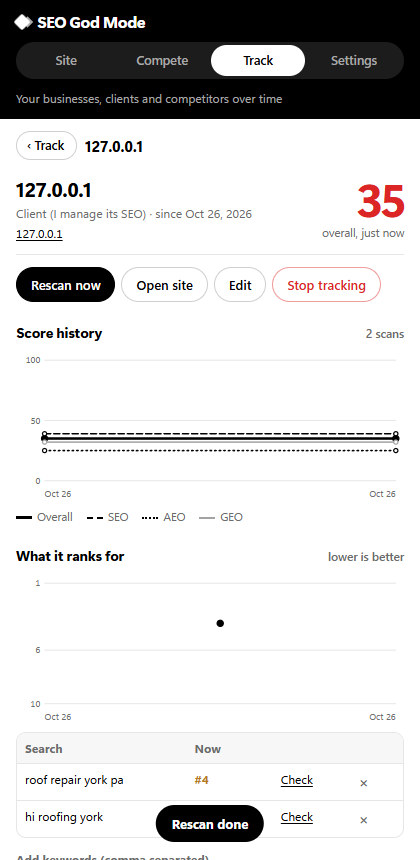
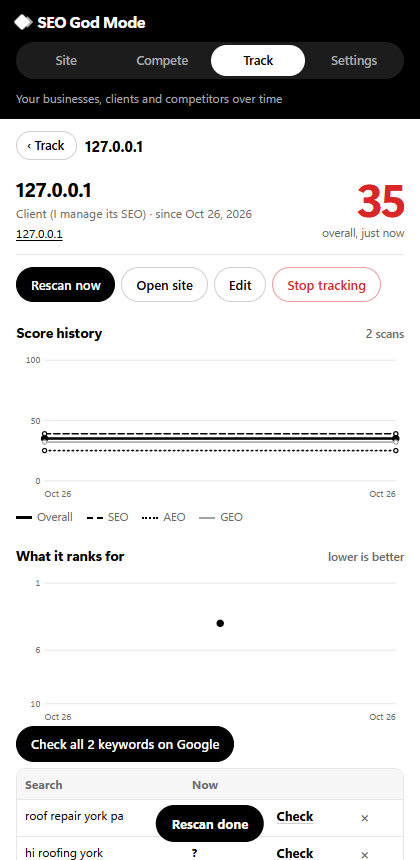
Extension 1.12: Check searches and updates positions, keyword report with fix prompt, new keywords to try

diff --git a/extension/views.js b/extension/views.js
@@ -15,6 +15,7 @@ import { getSettings, overlayRegistered, runDaily, saveSettings, syncOverlay } f
 import { techBlock, techProfile } from "./lib/tech.js";
 import { breakdown } from "./lib/breakdown.js";
 import * as T from "./lib/track.js";
+import * as K from "./lib/kwcheck.js";
 import * as U from "./lib/update.js";
 
 const $ = (id) => document.getElementById(id);
@@ -593,11 +594,13 @@ async function renderSiteDetail(origin) {
       { name: "AEO", cls: "k2", points: h.map((p) => ({ t: p.t, v: p.aeo })) }, { name: "GEO", cls: "k3", points: h.map((p) => ({ t: p.t, v: p.geo })) }], { label: "Score history" })}
     <h2 class="sec">What it ranks for <small>lower is better</small></h2>
     ${topK.length ? T.lineChart(topK.map((q, i) => ({ name: q, cls: cls[i], points: pos.filter((p) => p.q === q).map((p) => ({ t: p.t, v: p.pos })) })), { min: 1, max: maxPos, invert: true, label: "Keyword positions" }) : ""}
+    ${kws.length ? `<div class="btns"><button id="checkall" class="primary">Check ${kws.length > 1 ? `all ${Math.min(kws.length, CHECK_MAX)} keywords` : "this keyword"} on Google</button></div><p id="kwstatus" class="lede" hidden></p>` : ""}
     ${kws.length ? `<table class="mini ranks"><tr><th>Search</th><th>Now</th><th></th><th></th><th></th></tr>${kws.map((q) => { const r = byQ[q]; const d = r?.pos && r?.prev ? r.prev - r.pos : null;
-      return `<tr><td>${esc(q)}</td><td class="num ${posCls(r?.pos)}">${r ? (r.pos ? "#" + r.pos : "–") : "?"}</td><td class="num ${d > 0 ? "up" : d < 0 ? "down" : ""}">${d ? (d > 0 ? "▲" : "▼") + Math.abs(d) : ""}</td><td><a href="https://www.google.com/search?q=${encodeURIComponent(q)}" target="_blank" rel="noopener" title="Search it on Google to record the position">Check</a></td><td><button class="kwdel" data-delkw="${esc(q)}" title="Stop tracking “${esc(q)}”" aria-label="Stop tracking ${esc(q)}">×</button></td></tr>`; }).join("")}</table>`
+      return `<tr><td>${esc(q)}</td><td class="num ${posCls(r?.pos)}">${r ? (r.pos ? "#" + r.pos : "–") : "?"}</td><td class="num ${d > 0 ? "up" : d < 0 ? "down" : ""}">${d ? (d > 0 ? "▲" : "▼") + Math.abs(d) : ""}</td><td><button class="linkish" data-checkkw="${esc(q)}" title="Search “${esc(q)}” on Google now and update the position">Check</button></td><td><button class="kwdel" data-delkw="${esc(q)}" title="Stop tracking “${esc(q)}”" aria-label="Stop tracking ${esc(q)}">×</button></td></tr>`; }).join("")}</table>`
       : `<p class="lede">No searches yet. Search one on Google, or add keywords below.</p>`}
     <form id="kwadd" class="field"><label for="kwnew">Add keywords (comma separated)</label><div class="row2"><input id="kwnew" class="search" placeholder="roof repair york pa, metal roofing"><button>Add</button></div></form>
-    <p class="unknowns">“?” not searched yet, “–” not in the results shown. Positions are recorded when you search on Google; the extension never searches by itself.</p>
+    <p class="unknowns">“?” not checked yet, “–” not in the results shown. Check searches Google in a background tab, one keyword every few seconds, only when you press it. Searching on Google yourself updates positions too. Results vary by location.</p>
+    ${await kwReportBlock(origin)}
     <h2 class="sec">Hosting and tech</h2><div id="techout"><p class="lede">Looking it up…</p></div>
     ${T.isOwned(s) ? await compareBlock(s, list) : ""}
     ${h.length ? fold("All scans", h.length, `<table class="mini"><tr><th>Date</th><th>Overall</th><th>SEO</th><th>AEO</th><th>GEO</th><th>Pages</th></tr>${[...h].reverse().slice(0, 30).map((p) => `<tr><td>${when(p.t)}</td><td>${p.overall}</td><td>${p.seo}</td><td>${p.aeo}</td><td>${p.geo}</td><td>${p.pages ?? ""}</td></tr>`).join("")}</table>`) : ""}`;
@@ -615,8 +618,68 @@ async function renderSiteDetail(origin) {
   $("opensite").onclick = () => chrome.tabs.create({ url: origin + "/" });
   $("kwadd").onsubmit = async (e) => { e.preventDefault(); await T.setKeywords(origin, [...s.keywords, ...$("kwnew").value.split(",")]); renderSiteDetail(origin); };
   $("removesite").onclick = () => confirmRemove($("removebox"), origin, s.name, () => { v.detail = null; renderTrack(ui); });
+  const ca = $("checkall"); if (ca) ca.onclick = () => checkKeywords(origin, kws.slice(0, CHECK_MAX));
+  el.querySelectorAll("[data-checkkw]").forEach((b) => (b.onclick = () => checkKeywords(origin, [b.dataset.checkkw])));
+  el.querySelectorAll("[data-checknew]").forEach((b) => (b.onclick = async () => { const q = b.dataset.checknew; await T.setKeywords(origin, [...s.keywords, q]); checkKeywords(origin, [q]); }));
+  el.querySelectorAll("[data-trackkw]").forEach((b) => (b.onclick = async () => { await T.setKeywords(origin, [...s.keywords, b.dataset.trackkw]); ui.toast(`Tracking “${b.dataset.trackkw}”`); renderSiteDetail(origin); }));
+  const kp = $("kwprompt"); if (kp) kp.onclick = async () => ui.copy(K.keywordPrompt(origin, await K.getReport(origin)), "Fix prompt copied");
   el.querySelectorAll("[data-delkw]").forEach((b) => (b.onclick = async () => { await T.removeKeyword(origin, b.dataset.delkw); ui.toast(`Stopped tracking “${b.dataset.delkw}”`); renderSiteDetail(origin); }));
   showTech($("techout"), origin);
+}
+
+const CHECK_MAX = 15;
+
+/**
+ * Press Check: search the keywords on Google (background tab), record the positions, then compare the pages for the
+ * keywords not in the top 3 and suggest new ones. Asks for Google (to search) and other sites (to compare) in one go.
+ */
+async function checkKeywords(origin, qs) {
+  if (v.checking) return;
+  const want = [...GOOGLE, "https://*/*", "http://*/*"];
+  if (!(await chrome.permissions.contains({ origins: want }))) await chrome.permissions.request({ origins: want }).catch(() => false);
+  if (!(await chrome.permissions.contains({ origins: GOOGLE }))) return ui.notice("Checking needs access to google.com to read the results. Press Check again and choose Allow.");
+  const canRead = await chrome.permissions.contains({ origins: ["https://*/*", "http://*/*"] });
+  v.checking = true;
+  const say = (t) => { const st = $("kwstatus"); if (st) { st.hidden = false; st.textContent = t; } };
+  document.querySelectorAll("#checkall, [data-checkkw], [data-checknew]").forEach((b) => (b.disabled = true));
+  document.body.classList.add("busy");
+  try {
+    const { results, blocked } = await K.searchKeywords(qs, { origin, onProgress: say });
+    if (results.some((r) => !r.error)) await K.buildReport(origin, results, { canRead, onProgress: say });
+    if (blocked) ui.notice("Google is showing a robot check in the tab that just opened. Solve it there, then press Check again.");
+    const done = results.filter((r) => !r.error);
+    ui.toast(done.length === 1 ? `“${done[0].q}”: ${done[0].pos ? "#" + done[0].pos : "not in the top " + done[0].of}` : `Checked ${done.length} keyword${done.length === 1 ? "" : "s"}`);
+  } catch (e) { ui.notice(esc(e.message || e)); }
+  finally {
+    v.checking = false; document.body.classList.remove("busy");
+    if (document.body.dataset.mode === "track" && v.detail === origin && !v.editing) renderSiteDetail(origin);
+  }
+}
+
+/** The saved keyword report: where the site is top 3 and where it isn't, why, a fix prompt, and new keywords to try. */
+async function kwReportBlock(origin) {
+  const r = await K.getReport(origin);
+  if (!r?.rows.length) return "";
+  const by = { top: [], close: [], behind: [] };
+  r.rows.forEach((x) => by[K.group(x.pos)].push(x));
+  const sortPos = (a, b) => (a.pos ?? 99) - (b.pos ?? 99);
+  const tops = (x) => x.top.map((t) => `#${t.position} ${esc(t.host)}`).join(", ");
+  const weak = [...by.close, ...by.behind].sort(sortPos);
+  const cls = { close: "s-part", behind: "s-fail" };
+  return `<h2 class="sec">Keyword report <small>checked ${esc(when(r.t))}</small></h2>
+    <div class="kwsum"><span class="s-pass"><b>${by.top.length}</b> top 3</span><span class="s-part"><b>${by.close.length}</b> page 1</span><span class="s-fail"><b>${by.behind.length}</b> not on page 1</span></div>
+    ${by.top.length ? `<p class="lede"><b>Ranking well:</b> ${by.top.sort(sortPos).map((x) => `“${esc(x.q)}” #${x.pos}`).join(", ")}.</p>` : ""}
+    ${weak.length ? `<div class="list">${weak.map((x) => `<div class="factor"><span class="dot ${cls[K.group(x.pos)]}"></span><div>
+      <b>${esc(x.q)} · ${x.pos ? "#" + x.pos : "not in the top " + (x.of || 10)}</b>
+      <small>Top: ${tops(x)}${x.score != null ? ` · on-page ${x.score} vs ${(x.others || []).join(", ") || "–"}` : ""}</small>
+      ${x.verdict ? `<p>${esc(x.verdict)}</p>` : ""}
+      ${x.gaps?.length ? `<ul class="kwgaps">${x.gaps.map((g) => `<li><b>${esc(g.label)}</b> (you ${esc(g.mine)}, them ${esc(g.them.join(" / ") || "–")}): ${esc(g.fix)}</li>`).join("")}</ul>`
+        : x.error ? `<p>Couldn't compare the pages (${esc(x.error)}).</p>` : x.score == null ? `<p>Allow reading other websites (press Check again and choose Allow) to see what the top pages do differently.</p>` : ""}
+    </div></div>`).join("")}</div>` : `<p class="lede">Every checked keyword is in the top 3.</p>`}
+    <div class="btns stack"><button id="kwprompt" class="primary">Copy fix prompt</button></div>
+    ${r.ideas.length ? `<h2 class="sec">New keywords to try <small>from Google's questions and related searches</small></h2>
+      <ul class="ideas">${r.ideas.map((x) => `<li><span>${esc(x.q)} <small>${x.kind === "question" ? "question" : "related"}</small></span><span class="acts">
+        <button class="linkish" data-checknew="${esc(x.q)}">Check</button><button class="linkish" data-trackkw="${esc(x.q)}">+ Track</button></span></li>`).join("")}</ul>` : ""}`;
 }
 
 /** Hosting and tech for a site, into el. Asks for access only when the user presses the button. */

diff --git a/extension/lib/kwcheck.js b/extension/lib/kwcheck.js
@@ -1,0 +1,102 @@
+/**
+ * Keyword check, run from the Track view when you press Check (never on its own):
+ *  - Searches each keyword on Google in a background tab, one at a time a few seconds apart, reads the results with
+ *    readGoogle and records the site's position (the same reading a normal Google search records).
+ *  - Stops at a robot check and brings that tab forward for you to solve. It never tries to get past one.
+ *  - For keywords where the site isn't in the top 3, compares its page with the top results (the same breakdown as
+ *    the Google hover cards) and lists what to change.
+ *  - Suggests new keywords from the searches' "People also ask" and related searches, minus the ones already tracked.
+ * The report is saved per site ("kwreport:<origin>") and merged with earlier checks.
+ */
+import { readGoogle } from "./google.js";
+import { breakdown } from "./breakdown.js";
+import { recordPositions, trackedSites } from "./track.js";
+
+export const reportKey = (origin) => "kwreport:" + origin;
+const hostOf = (u) => { try { return new URL(u).hostname.replace(/^www\./, ""); } catch { return ""; } };
+const sleep = (ms) => new Promise((r) => setTimeout(r, ms));
+
+function loaded(tabId, timeout = 20000) {
+  return new Promise((resolve) => {
+    const done = () => { clearTimeout(t); chrome.tabs.onUpdated.removeListener(on); setTimeout(resolve, 700); };
+    const on = (id, info) => { if (id === tabId && info.status === "complete") done(); };
+    const t = setTimeout(done, timeout);
+    chrome.tabs.onUpdated.addListener(on);
+  });
+}
+
+/** Search each keyword and record positions. Returns {results: [{q, pos, of, serp}], blocked}. */
+export async function searchKeywords(qs, { origin, onProgress = () => {} } = {}) {
+  const tab = await chrome.tabs.create({ url: "about:blank", active: false });
+  const results = [];
+  let blocked = false;
+  try {
+    for (const [i, q] of qs.entries()) {
+      if (i) await sleep(2500 + Math.random() * 1500);
+      onProgress(`Searching Google for “${q}” (${i + 1} of ${qs.length})…`);
+      const wait = loaded(tab.id);
+      await chrome.tabs.update(tab.id, { url: "https://www.google.com/search?q=" + encodeURIComponent(q) });
+      await wait;
+      const serp = (await chrome.scripting.executeScript({ target: { tabId: tab.id }, func: readGoogle }).catch(() => [{}]))[0]?.result;
+      if (serp?.blocked) { blocked = true; break; }
+      if (serp?.kind !== "serp" || !serp.organic?.length) { results.push({ q, error: "couldn't read the results" }); continue; }
+      serp.query = q;
+      const mine = (await recordPositions(serp)).find((r) => r.origin === origin);
+      results.push({ q, pos: mine?.pos ?? null, of: serp.organic.length, serp });
+    }
+  } finally {
+    if (blocked) chrome.tabs.update(tab.id, { active: true }).catch(() => {});
+    else chrome.tabs.remove(tab.id).catch(() => {});
+  }
+  return { results, blocked };
+}
+
+export const group = (pos) => (pos && pos <= 3 ? "top" : pos && pos <= 10 ? "close" : "behind");
+
+/**
+ * Break down the keywords where the site isn't top 3, suggest new keywords, and save the report merged with earlier ones.
+ * canRead: whether the extension may read other websites (needed to compare pages).
+ */
+export async function buildReport(origin, results, { canRead = true, onProgress = () => {} } = {}) {
+  const site = (await trackedSites()).find((s) => s.origin === origin);
+  const old = (await chrome.storage.local.get(reportKey(origin)))[reportKey(origin)] || { rows: [], ideas: [] };
+  const rows = new Map(old.rows.map((r) => [r.q, r]));
+  const ideas = new Map(old.ideas.map((x) => [x.q.toLowerCase(), x]));
+  for (const r of results.filter((x) => !x.error)) {
+    const row = { q: r.q, pos: r.pos, of: r.of, t: new Date().toISOString(), top: r.serp.organic.slice(0, 3).map((o) => ({ host: hostOf(o.url), position: o.position })) };
+    const hit = r.serp.organic.find((o) => hostOf(o.url) === hostOf(origin));
+    row.page = hit?.url || origin + "/";
+    if (group(r.pos) !== "top" && canRead) {
+      onProgress(`Comparing your page with the top results for “${r.q}”…`);
+      const b = await breakdown({ query: r.q, organic: r.serp.organic }, row.page, { n: 3 }).catch((e) => ({ error: String(e.message || e) }));
+      if (b.error) row.error = b.error;
+      else Object.assign(row, { score: b.score, others: b.others, verdict: b.verdict,
+        gaps: b.gaps.filter((g) => g.behind).slice(0, 4).map((g) => ({ label: g.label, fix: g.fix, mine: g.mine, them: g.them })) });
+    }
+    rows.set(r.q, row);
+    for (const q of r.serp.paa || []) ideas.set(q.toLowerCase(), { q, kind: "question", from: r.q });
+    for (const q of r.serp.related || []) ideas.set(q.toLowerCase(), { q, kind: "related", from: r.q });
+  }
+  const have = new Set([...(site?.keywords || []), ...rows.keys()].map((k) => k.toLowerCase()));
+  const report = { t: new Date().toISOString(), rows: [...rows.values()],
+    ideas: [...ideas.values()].filter((x) => !have.has(x.q.toLowerCase())).slice(0, 15) };
+  await chrome.storage.local.set({ [reportKey(origin)]: report });
+  return report;
+}
+
+export async function getReport(origin) { return (await chrome.storage.local.get(reportKey(origin)))[reportKey(origin)] || null; }
+
+/** A prompt to paste into an AI assistant: the keywords not in the top 3 and what to change for each. */
+export function keywordPrompt(origin, report) {
+  const weak = report.rows.filter((r) => group(r.pos) !== "top").sort((a, b) => (a.pos ?? 99) - (b.pos ?? 99));
+  const strong = report.rows.filter((r) => group(r.pos) === "top");
+  const line = (r) => `- "${r.q}": ${r.pos ? "#" + r.pos : "not in the top " + (r.of || 10)} (page: ${r.page}). Top: ${r.top.map((t) => `#${t.position} ${t.host}`).join(", ")}.`
+    + (r.score != null ? ` On-page score ${r.score}/100 vs theirs ${r.others?.join(", ") || "–"}.` : "")
+    + (r.gaps?.length ? "\n" + r.gaps.map((g) => `  - ${g.label}: this page ${g.mine}, top pages ${g.them.join(" / ") || "–"}. ${g.fix}`).join("\n") : "");
+  return `Help ${origin} rank higher on Google for these keywords (SEO God Mode keyword check, ${new Date().toISOString().slice(0, 10)}; positions read from Google, page facts OBSERVED).
+${weak.length ? `Not in the top 3, closest first:\n${weak.map(line).join("\n")}` : "Every checked keyword is in the top 3."}
+${strong.length ? `\nAlready top 3 (don't break these): ${strong.map((r) => `"${r.q}" #${r.pos}`).join(", ")}.` : ""}
+For each weak keyword: pick the one page that should rank for it (create it if no page fits and say so), then change its title, H1, opening lines and sections to answer the search, and link to it from related pages. Don't target two keywords with the same page if they need different answers.
+Rules: use only facts that are on the site or that I confirm, and write [CONFIRM: ...] for anything you'd have to guess. Don't copy competitors' text, photos, reviews or claims. Use each keyword naturally; no stuffing. Keep the design. Verify the live pages after deploying. Don't promise rankings.
+Not measured: backlinks, reviews and Google Business Profile strength, site age, clicks. Positions vary by location and person.`;
+}

diff --git a/extension/lib/track.js b/extension/lib/track.js
@@ -51,7 +51,7 @@ export async function untrackSite(origin) {
   const list = (await trackedSites()).filter((s) => s.origin !== origin);
   list.forEach((s) => { if (s.competitorOf === origin) s.competitorOf = null; });
   await chrome.storage.local.set({ [LIST]: list });
-  await chrome.storage.local.remove([trendKey(origin), posKey(origin), "sitescans:" + origin, "baseline:sitescans:" + origin]);
+  await chrome.storage.local.remove([trendKey(origin), posKey(origin), "sitescans:" + origin, "baseline:sitescans:" + origin, "kwreport:" + origin]);
   const { mySite } = await chrome.storage.local.get("mySite");
   if (mySite === origin) await chrome.storage.local.remove("mySite");
 }
@@ -65,12 +65,14 @@ export async function removeKeyword(origin, q) {
   const k = posKey(origin);
   const rows = (await chrome.storage.local.get(k))[k] || [];
   await chrome.storage.local.set({ [k]: rows.filter((r) => r.q !== q) });
+  const rk = "kwreport:" + origin, rep = (await chrome.storage.local.get(rk))[rk];
+  if (rep) await chrome.storage.local.set({ [rk]: { ...rep, rows: rep.rows.filter((r) => r.q !== q) } });
 }
 
 /** Delete every tracked site and all history (scores, positions, saved scans). Settings are kept. */
 export async function deleteAll() {
   const all = await chrome.storage.local.get(null);
-  await chrome.storage.local.remove(Object.keys(all).filter((k) => k === LIST || k === "mySite" || /^(trend|kwpos|scans|sitescans|baseline):/.test(k)));
+  await chrome.storage.local.remove(Object.keys(all).filter((k) => k === LIST || k === "mySite" || /^(trend|kwpos|kwreport|scans|sitescans|baseline):/.test(k)));
 }
 
 export async function setKeywords(origin, keywords) {
@@ -106,12 +108,14 @@ export async function recordPositions(serp) {
     const hit = serp.organic.find((o) => hostOf(o.url) === hostOf(s.origin));
     const k = posKey(s.origin);
     const rows = (await chrome.storage.local.get(k))[k] || [];
-    // One reading per keyword per hour is plenty; re-opening the panel shouldn't add duplicates.
-    if (!rows.some((r) => r.q === q && Math.abs(new Date(r.t) - new Date(t)) < 3600e3)) {
-      rows.push({ t, q, pos: hit ? hit.position : null, of: serp.organic.length, url: hit?.url || null,
-        top: serp.organic.slice(0, 3).map((o) => hostOf(o.url)) });
-      await chrome.storage.local.set({ [k]: rows.slice(-MAX_POINTS * 5) });
-    }
+    // One reading per keyword per hour: a newer reading within the hour replaces it (so Check always shows the
+    // latest position) instead of adding a duplicate point.
+    const reading = { t, q, pos: hit ? hit.position : null, of: serp.organic.length, url: hit?.url || null,
+      top: serp.organic.slice(0, 3).map((o) => hostOf(o.url)) };
+    const same = rows.findIndex((r) => r.q === q && Math.abs(new Date(r.t) - new Date(t)) < 3600e3);
+    if (same >= 0) rows.splice(same, 1);
+    rows.push(reading);
+    await chrome.storage.local.set({ [k]: rows.slice(-MAX_POINTS * 5) });
     if (s.keywords.includes(q) || hit) await setKeywords(s.origin, [...s.keywords, q]);
     out.push({ origin: s.origin, name: s.name, pos: hit ? hit.position : null });
   }
@@ -122,7 +126,7 @@ export async function positionHistory(origin) { return (await chrome.storage.loc
 
 export async function exportAll() {
   const all = await chrome.storage.local.get(null);
-  const keep = Object.fromEntries(Object.entries(all).filter(([k]) => k === LIST || /^(trend|kwpos|scans|sitescans|baseline):/.test(k)));
+  const keep = Object.fromEntries(Object.entries(all).filter(([k]) => k === LIST || /^(trend|kwpos|kwreport|scans|sitescans|baseline):/.test(k)));
   return JSON.stringify({ app: "seo-god-mode", version: chrome.runtime.getManifest().version, exportedAt: new Date().toISOString(), data: keep }, null, 1);
 }
 
@@ -133,7 +137,7 @@ export async function importAll(text) {
   const cur = await chrome.storage.local.get(Object.keys(parsed.data));
   const merged = {};
   for (const [k, v] of Object.entries(parsed.data)) {
-    if (!/^(tracked|trend:|kwpos:|scans:|sitescans:|baseline:)/.test(k)) continue;
+    if (!/^(tracked|trend:|kwpos:|kwreport:|scans:|sitescans:|baseline:)/.test(k)) continue;
     if (k === LIST) { const m = new Map((cur[k] || []).map((s) => [s.origin, s])); v.forEach((s) => m.set(s.origin, { ...s, ...(m.get(s.origin) || {}), keywords: [...new Set([...(m.get(s.origin)?.keywords || []), ...(s.keywords || [])])] })); merged[k] = [...m.values()]; }
     else if (Array.isArray(v)) { const m = new Map([...(cur[k] || []), ...v].map((x) => [x.t || x.id || JSON.stringify(x), x])); merged[k] = [...m.values()].sort((a, b) => String(a.t || a.id).localeCompare(String(b.t || b.id))); }
     else if (!(k in cur)) merged[k] = v;

diff --git a/extension/lib/breakdown.js b/extension/lib/breakdown.js
@@ -110,12 +110,12 @@ export function verdict(position, score, others, relation) {
   const them = relation === "above" ? "the pages above it" : "the next results";
   const top = position != null && position <= 3;
   const where = position ? `#${position}` : "where it is";
-  if (score >= avg + 5) return top ? `Its page matches this search better than ${them} (${score} vs ${avg} on average), which helps it hold ${where}.`
-    : `Its page matches this search as well as or better than ${them} (${score} vs ${avg}), so they most likely win on links, reviews or brand.`;
-  if (score <= avg - 5) return top ? `It ranks ${where} even though ${them} score higher on the page itself (${avg} vs ${score}). Its lead comes from what this can't measure: links, reviews, brand or site age.`
-    : `${relation === "above" ? "The pages above it" : "The other results"} match this search better on the page (${avg} vs ${score}). Closing the gaps below is the quickest win.`;
-  return top ? `On the page it's level with ${them} (${score} vs ${avg}). What keeps it at ${where} is likely links, reviews or brand.`
-    : `On the page it's level with ${them} (${score} vs ${avg}). Fixing the gaps below gives it an edge; the rest is links, reviews and brand.`;
+  if (score >= avg + 5) return top ? `Its page matches this search better than ${them} (this page ${score}, theirs ${avg} on average), which helps it hold ${where}.`
+    : `Its page matches this search as well as or better than ${them} (this page ${score}, theirs ${avg} on average), so they most likely win on links, reviews or brand.`;
+  if (score <= avg - 5) return top ? `It ranks ${where} even though ${them} score higher on the page itself (this page ${score}, theirs ${avg} on average). Its lead comes from what this can't measure: links, reviews, brand or site age.`
+    : `${relation === "above" ? "The pages above it" : "The other results"} match this search better on the page (this page ${score}, theirs ${avg} on average). Closing the gaps below is the quickest win.`;
+  return top ? `On the page it's level with ${them} (this page ${score}, theirs ${avg} on average). What keeps it at ${where} is likely links, reviews or brand.`
+    : `On the page it's level with ${them} (this page ${score}, theirs ${avg} on average). Fixing the gaps below gives it an edge; the rest is links, reviews and brand.`;
 }
 
 export function fixPrompt(b) {

diff --git a/extension/sidepanel.css b/extension/sidepanel.css
@@ -410,3 +410,9 @@ input[role="switch"]:disabled { opacity: .4; cursor: default; }
 .serplist .rowbtn:active { transform: none; }
 
 .verdict { margin: 12px 0 0; font-weight: 600; }
+
+.kwsum { display: grid; grid-template-columns: repeat(3, 1fr); gap: 6px; margin: 8px 0 10px; }
+.kwsum span { border: 1px solid var(--st); border-radius: var(--r-lg, 12px); padding: 6px 10px; font-size: 12px; color: var(--ink); }
+.kwsum b { display: block; font-size: 20px; line-height: 1.1; color: var(--st); }
+.kwgaps { margin: 4px 0 0; padding-left: 16px; font-size: 12px; } .kwgaps li { margin: 3px 0; }
+.ideas li small { color: var(--muted); margin-left: 4px; }

diff --git a/extension/README.md b/extension/README.md
@@ -54,7 +54,7 @@ You can switch hover cards and automatic positions off, and turn on **notificati
 
 ## Compete
 
-Search what you want to rank for on Google as normal, open the panel and pick **Compete**. The extension reads the results page you opened; it never runs searches by itself.
+Search what you want to rank for on Google as normal, open the panel and pick **Compete**. The extension reads the results page you opened; it only runs searches itself when you press **Check** in Track.
 
 Compete opens on a home screen: **where your site ranks** for every search you've made (position, change since last time, when it was checked), **suggested keywords**, and the three tools. Each tool opens on its own with **‹ Compete** to go back, and long results (every factor, top pages, the brief) fold away until you open them. Opening Compete on a Google results page goes straight to Why they rank.
 
@@ -67,7 +67,9 @@ Compete opens on a home screen: **where your site ranks** for every search you'v
 
 **Track new site** asks one thing at a time: the address, what the site is to you, whose competitor it is (for competitors), and which searches it should rank for (suggested from its own pages; tick the ones that matter). Mark each site as **My business**, **Client (I manage its SEO)** for agencies, or **Competitor** (linked to the business it competes with). The list is grouped that way. Open a business or client to see **You vs competitors**: everyone's latest Overall, SEO, AEO and GEO side by side, an overall-score chart with all of them, the checks where a competitor is clearly ahead (with the fix and points it's worth to you, plus a fix prompt), and a search-position table for your keywords across all of them. **Rescan** the business and its competitors in one go. In Compete, "+ Track" on any result adds that site as a competitor of the business you picked.
 
-Add any website and it's scanned straight away. Every whole-site scan of a tracked site adds a point to its score chart (overall, SEO, AEO, GEO), and every Google search you analyze in Compete records where each tracked site ranks, so you get a keyword position chart too. Click a site for its full history, keywords and scans. History is stored in Chrome on your computer (with unlimited storage) and survives updates; **Export history** backs it up and **Import history** merges it on another computer.
+Add any website and it's scanned straight away. Every whole-site scan of a tracked site adds a point to its score chart (overall, SEO, AEO, GEO), and every Google search you analyze in Compete records where each tracked site ranks, so you get a keyword position chart too. Click a site for its full history, keywords and scans.
+
+**Check keywords:** press **Check** next to a keyword (or **Check all keywords on Google**) and the extension searches it on Google in a background tab and updates the position straight away. Then it builds a **keyword report**: how many keywords are in the top 3, on page 1, or further down; for each one not in the top 3, who's on top, your page's on-page score next to theirs, and what to change; a **Copy fix prompt** for all of them; and **new keywords to try** from Google's questions and related searches, each with Check and + Track. Searches run one every few seconds, only when you press Check; if Google shows a robot check, the tab comes forward for you to solve. History is stored in Chrome on your computer (with unlimited storage) and survives updates; **Export history** backs it up and **Import history** merges it on another computer.
 
 ## Updates
 
@@ -108,7 +110,7 @@ Scores are out of 100 per area. **Overall = 60% SEO + 20% AEO + 20% GEO.** Every
 
 ## Privacy
 
-Scans run in your browser and history stays in `chrome.storage.local` on your device. Outside the site you scan, it only contacts: Google PageSpeed Insights (the homepage URL, on whole-site scans), the Google results or Maps page you open (read on screen, only when you use Compete), the pages ranking there (to compare them), Google autocomplete (the keyword you type, for keyword ideas), and GitHub (to check for updates). The CDN/firewall check briefly sets a crawler user-agent on requests to that homepage. There's no analytics and no account. Full policy: [docs/PRIVACY.md](../docs/PRIVACY.md).
+Scans run in your browser and history stays in `chrome.storage.local` on your device. Outside the site you scan, it only contacts: Google PageSpeed Insights (the homepage URL, on whole-site scans), the Google results or Maps page you open (read on screen, only when you use Compete), the pages ranking there (to compare them), Google search (your tracked keywords, only when you press Check in Track), Google autocomplete (the keyword you type, for keyword ideas), and GitHub (to check for updates). The CDN/firewall check briefly sets a crawler user-agent on requests to that homepage. There's no analytics and no account. Full policy: [docs/PRIVACY.md](../docs/PRIVACY.md).
 
 ## Limits
 

diff --git a/CHANGELOG.md b/CHANGELOG.md
@@ -1,5 +1,13 @@
 # Changelog
 
+## 2.17.0 (2026-10-27): extension 1.12: Check updates positions, keyword report, new keywords to try
+
+- **Check updates your position:** Check next to a tracked keyword used to open Google in a new tab, and the position only changed if the overlay was on, and never twice within an hour. Now Check searches the keyword on Google in a background tab, reads the results and updates the position on the spot. **Check all keywords on Google** does every keyword (up to 15), one every few seconds. A newer reading within the hour replaces the old one instead of being ignored.
+- **Keyword report after every check:** counts of keywords in the top 3, on page 1, and further down. For each keyword not in the top 3, it compares your page with the top three results automatically: who's on top, your on-page score next to theirs, a sentence on why, and what to change. **Copy fix prompt** covers all of them, closest to the top first, and lists the top-3 keywords to protect.
+- **New keywords to try:** from the People also ask questions and related searches on the results pages it read, minus keywords you already track, each with **Check** and **+ Track**.
+- If Google shows a robot check, checking stops and the tab comes forward for you to solve. It never tries to get past one.
+- Hover cards and breakdowns now say "this page 52, theirs 60 on average" instead of "60 vs 52".
+
 ## 2.16.0 (2026-10-26): extension 1.11: scan button shows progress, hover scores make sense
 
 - **Scan button fills up:** while a scan runs, the button turns dark and fills with white from left to right as each step finishes (crawling, sitemap, PageSpeed, scoring).

diff --git a/docs/PRIVACY.md b/docs/PRIVACY.md
@@ -12,6 +12,8 @@ One request goes to a third party: a whole-site scan asks **Google PageSpeed Ins
 
 **Compete view (only when you use it):** it reads the Google search results page or Google Maps page you have open (what's on screen), loads the web pages ranking there to compare them with yours, and sends the keyword you type to Google autocomplete (`suggestqueries.google.com`) for keyword ideas. It never runs Google searches by itself.
 
+**Track → Check (only when you press it):** it searches each of that site's keywords on Google in a background tab of your own browser, one every few seconds, reads the results the same way, and saves the positions on your computer. For keywords not in the top 3 it loads your page and the top three results to compare them. If Google shows a robot check, it stops and shows you the tab; it never tries to get past one.
+
 **On Google overlay (only if you turn it on):** it reads the Google results pages you open, and when you hover a result it loads that page and up to three pages ranking near it to compare them. If "record my positions" is on, it saves where your tracked sites rank for that search, on your computer. Notifications, if you allow them, are shown by Chrome on your computer.
 
 **Hosting and tech (Site, Track and hover cards):** to show what a site is built with and where it's hosted, the extension reads that site's homepage headers and code, and looks up the site's public name-server and mail-server records with Google Public DNS (`dns.google`). Only the domain name is sent.
